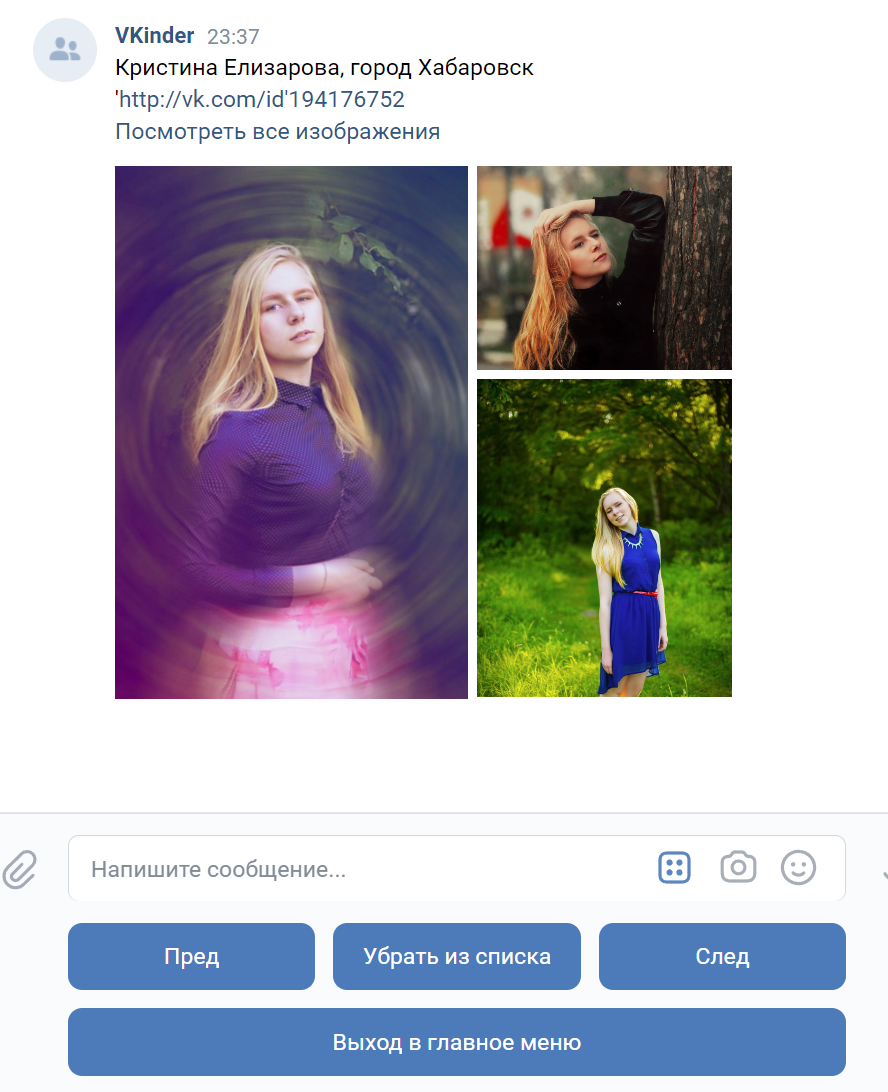
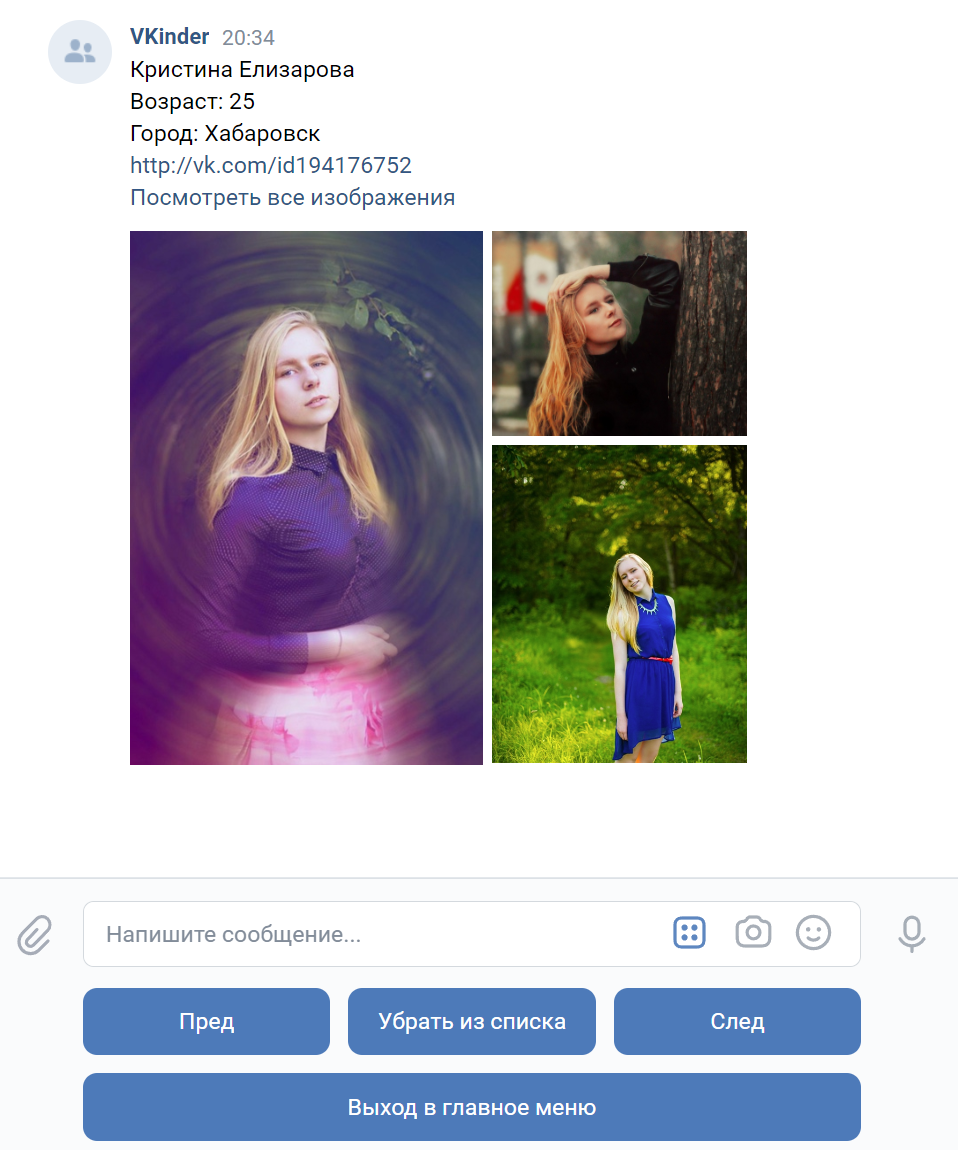
Change Documentation

diff --git a/Documentation/README.md b/Documentation/README.md
@@ -22,16 +22,15 @@
 ![](photo/bot_start.png)
 2. Пользователю будет предложено выбрать или написать необходимое действие на выбор: "Начать поиск", "Избранные", "Черный список".
  
-    "Начать поиск" - процесс поиска людей.
-  
-    "Избранные" - показать информацию о пользователях, которые заинтересовали.     
-    "Черный список" - показать информацию о пользователях, которые не заинтересовали. 
+ - "Начать поиск" - процесс поиска людей. 
+ - "Избранные" - показать информацию о пользователях, которые заинтересовали.     
+ - "Черный список" - показать информацию о пользователях, которые не заинтересовали. 
  
 
-3. При выборе действия "Начать поиск" пользователю бота будет предложено написать интересующий возраст партнера, после чего начнется поиск пользователей по параметрам.
-![](photo/bot_age.png)
-4. После заврешения поиска пользователю бота появится информация о найденном пользователе.
+3. При выборе действия "Начать поиск" начнется поиск партнеров по параметрам пользователя бота.
 ![](photo/bot_search.png)
+4. После заврешения поиска пользователю бота появится информация о найденном пользователе.
+![](photo/vk_profile.png)
 5. В диалоговом окне можно выполнить следующие действия: 
     - перейти по ссылке профиля;
     - кнопка "Пред" - показать предыдущий профиль;
